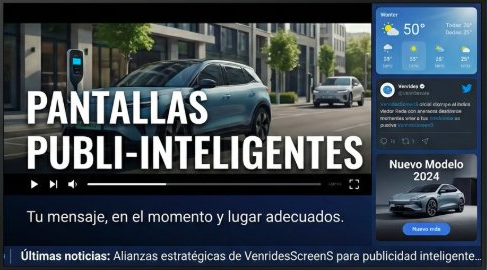
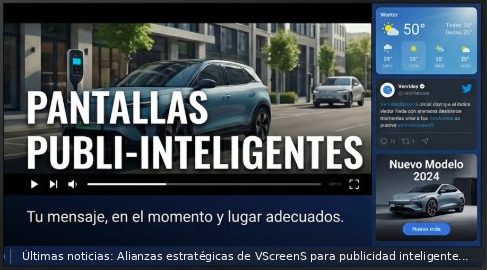
feat(vscreens): producto de servicio, IVA 16% por defecto y facturación con impuestos y RIF válido

Changed region(s): [[0.0308, 0.9185, 0.9856, 0.9778]]

diff --git a/odoo-addons/vscreens/models/vscreens_payment.py b/odoo-addons/vscreens/models/vscreens_payment.py
@@ -27,6 +27,13 @@ class VScreenSPayment(models.Model):
         company = self.company_id
         if company.partner_id:
             return company.partner_id
+        # LocVe guarda el RIF como prefijo + dígitos (V / E / J / G / P).
+        raw_vat = "".join(ch for ch in (company.rif or "") if ch.isdigit())
+        prefix = ""
+        for ch in (company.rif or "").upper():
+            if ch in "VEJGP":
+                prefix = ch
+                break
         partner = self.env["res.partner"].sudo().create({
             "name": company.name,
             "email": company.email or False,
@@ -34,7 +41,9 @@ class VScreenSPayment(models.Model):
             "is_company": True,
             "customer_rank": 1,
             "street": company.address or False,
-            "vat": company.rif or False,
+            "vat": raw_vat or False,
+            "prefix_vat": prefix or False,
+            "country_id": self.env.ref("base.ve").id,
         })
         company.sudo().write({"partner_id": partner.id})
         return partner
@@ -49,6 +58,15 @@ class VScreenSPayment(models.Model):
         )
         if not journal:
             raise UserError("No hay diario de ventas configurado. Configure la contabilidad de la empresa.")
+
+        product = self.env.ref("vscreens.product_service_subscription", raise_if_not_found=False)
+        if not product:
+            product = self.env["product.product"].sudo().search([("type", "=", "service")], limit=1)
+        taxes = self.env["account.tax"]
+        if product:
+            taxes = product.taxes_id.filtered(lambda t: t.company_id == self.env.company)
+        if not taxes:
+            taxes = self.env.company.account_sale_tax_id
         move = self.env["account.move"].sudo().create({
             "move_type": "out_invoice",
             "partner_id": partner.id,
@@ -58,9 +76,10 @@ class VScreenSPayment(models.Model):
             "invoice_origin": self.description or "VScreenS",
             "invoice_line_ids": [(0, 0, {
                 "name": self.description or "Suscripción VScreenS",
+                "product_id": product.id if product else False,
                 "quantity": 1.0,
                 "price_unit": self.amount,
-                "tax_ids": [(6, 0, [])],
+                "tax_ids": [(6, 0, taxes.ids)],
             })],
         })
         move.action_post()

diff --git a/odoo-addons/vscreens/__manifest__.py b/odoo-addons/vscreens/__manifest__.py
@@ -29,6 +29,7 @@ Incluye:
         "security/groups.xml",
         "security/ir.access.csv",
         "data/plans.xml",
+        "data/products.xml",
         "data/global_ad.xml",
         "data/cron.xml",
         "views/plan_views.xml",
